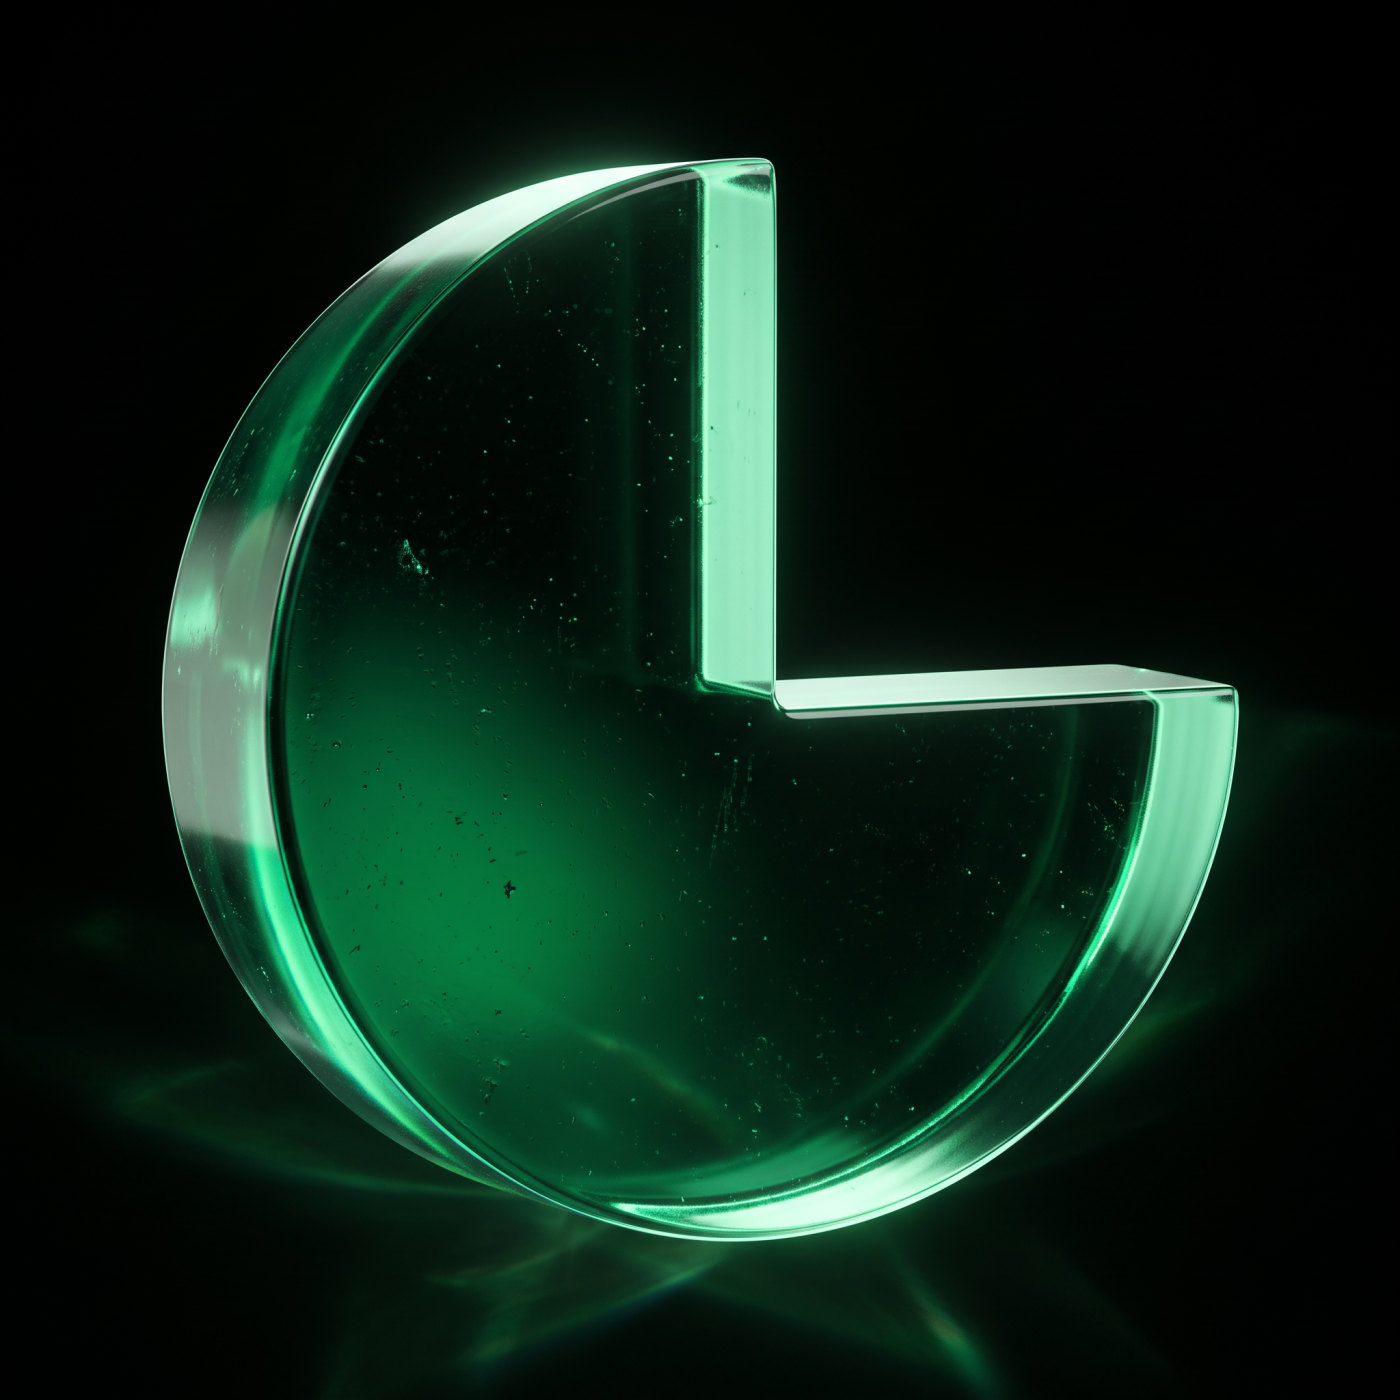
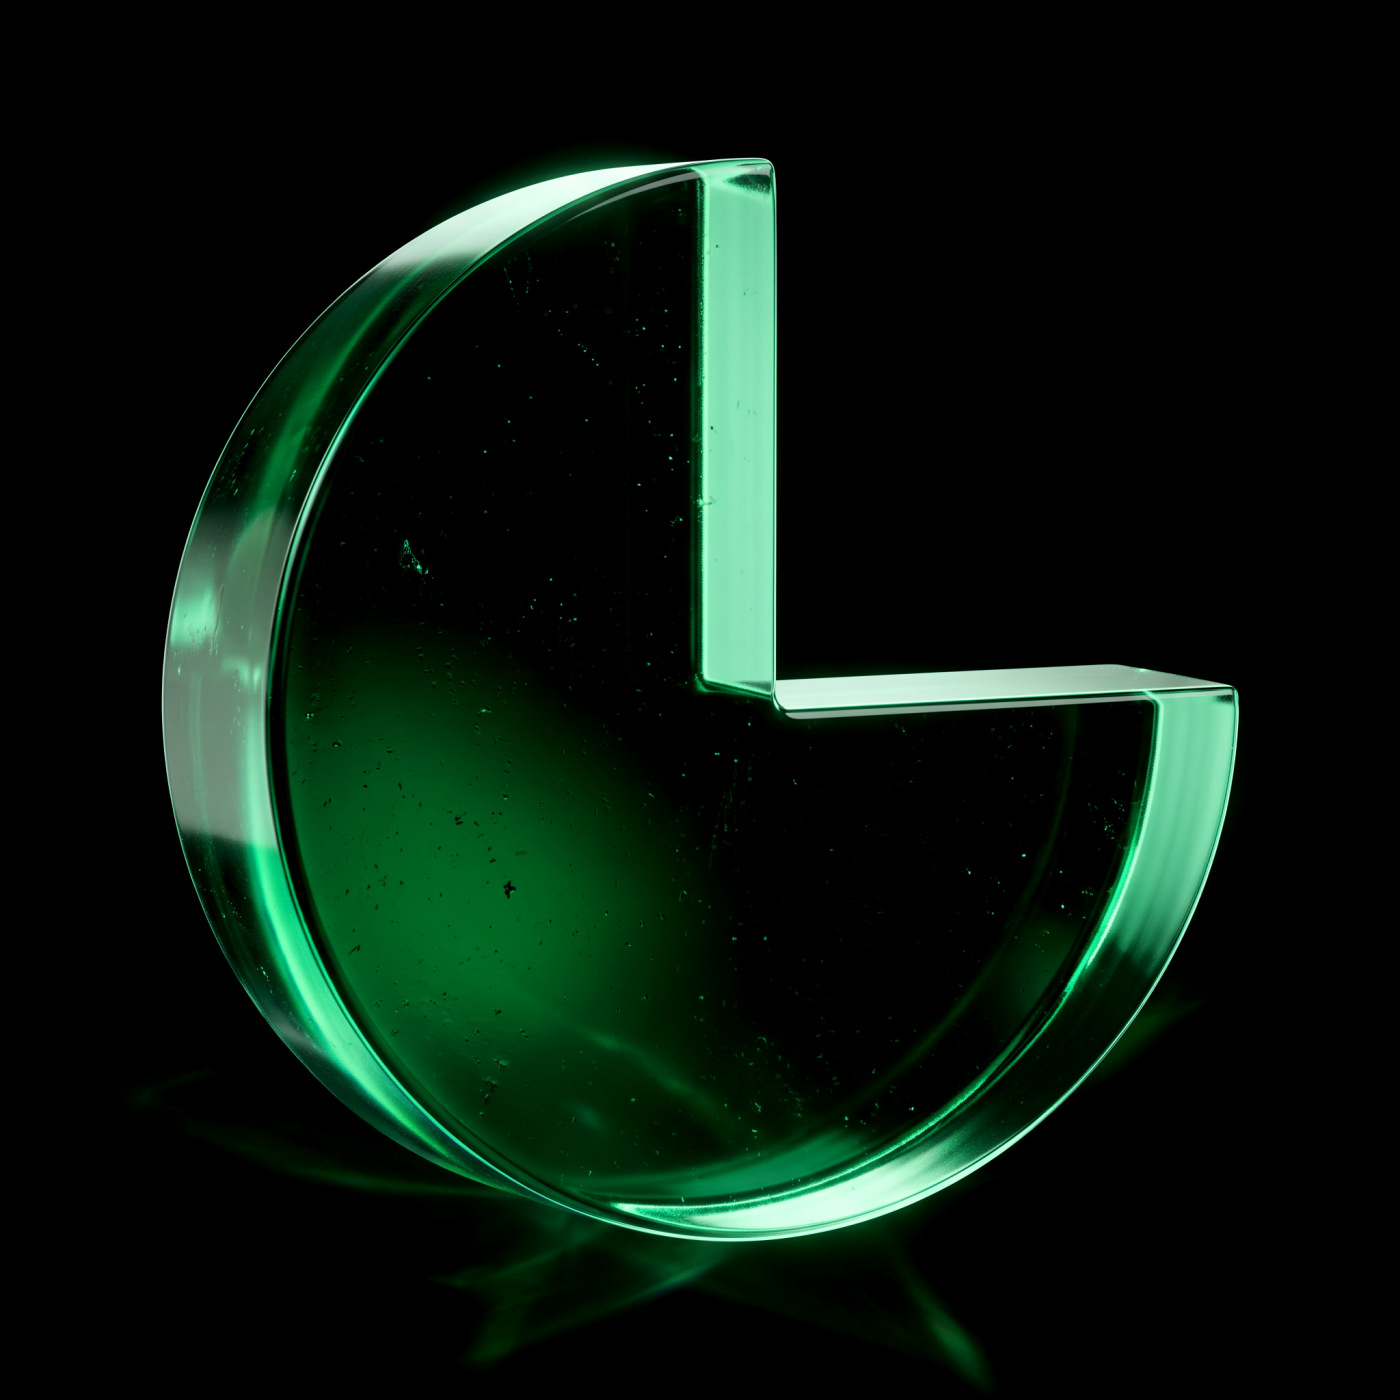
Titulo em 2 linhas, copy nova na faixa e fim da mancha em volta da peca
Titulo: medi a largura real de cada estado antes de escolher o tamanho. Na
coluna de 662px, "o seu dia escapa." pedia 902px - essa palavra saiu da
rotacao, e linha 2 variando de 658 a 902 ficaria desequilibrada de qualquer
jeito. Com foi/some/vai a linha mais larga da 651, e o teto caiu de 7 para
5.6rem (90px). O termo em vw foi para 7.2 porque perto de 1100px a coluna
encolhe mais rapido que a fonte e a linha quebrava sozinha; o minimo foi
para 2.8rem porque em 390px "some." passava 5px. Conferido em 1024, 1100,
1280, 1440, 1896 e 390: duas linhas em todas.

Faixa: a copy anterior ("um numero que voce acredita") era torta e nao
dizia nada. Virou perceptivo contra real, que e do que o app trata:
"Voce jura que foram vinte minutos. Foram duas horas."

Mancha em volta da peca: o fundo do render nao e preto puro, tem neblina
verde de ambiente, e em mix-blend-mode screen aquilo clareava um borrao ao
redor do disco. Reprocessei o PNG original levantando o ponto de preto
(tudo abaixo de 30 vai a zero, o resto reescalado) e apertei as mascaras
radiais. O vidro continua igual, o borrao sumiu.

Changed region(s): [[0.0614, 0.0921, 0.8907, 1.0], [0.86, 0.4914, 0.9521, 0.645]]

diff --git a/site/estilo.css b/site/estilo.css
@@ -47,7 +47,7 @@ img{display:block;max-width:100%;height:auto}
 /* ------------------------------------------------------------- tipografia */
 .gigante{
   font-weight:600;letter-spacing:-.045em;line-height:.94;
-  font-size:clamp(3rem,7.6vw,7rem);
+  font-size:clamp(2.8rem,7.2vw,5.6rem);
 }
 .titulo{
   font-weight:600;letter-spacing:-.035em;line-height:1.04;
@@ -117,8 +117,8 @@ img{display:block;max-width:100%;height:auto}
 .heroi-obj img{
   width:112%;max-width:none;margin-left:-6%;
   mix-blend-mode:screen;
-  -webkit-mask-image:radial-gradient(circle at 52% 50%,#000 54%,transparent 74%);
-          mask-image:radial-gradient(circle at 52% 50%,#000 54%,transparent 74%);
+  -webkit-mask-image:radial-gradient(circle at 52% 50%,#000 48%,transparent 68%);
+          mask-image:radial-gradient(circle at 52% 50%,#000 48%,transparent 68%);
 }
 @media (max-width:980px){
   .heroi{padding-top:124px}
@@ -329,8 +329,8 @@ img{display:block;max-width:100%;height:auto}
 .cta .env{position:relative}
 .cta img.obj{
   width:152px;margin:0 auto 34px;mix-blend-mode:screen;
-  -webkit-mask-image:radial-gradient(circle at 52% 50%,#000 52%,transparent 72%);
-          mask-image:radial-gradient(circle at 52% 50%,#000 52%,transparent 72%);
+  -webkit-mask-image:radial-gradient(circle at 52% 50%,#000 46%,transparent 66%);
+          mask-image:radial-gradient(circle at 52% 50%,#000 46%,transparent 66%);
 }
 .cta h2{margin-bottom:22px}
 .cta .lead{margin:0 auto;max-width:48ch}
@@ -594,7 +594,7 @@ img{display:block;max-width:100%;height:auto}
 .faixa .dito{max-width:640px}
 .faixa .dito .rotulo{display:block;margin-bottom:22px}
 .faixa p{
-  max-width:17ch;font-size:clamp(1.9rem,3.9vw,3.1rem);
+  max-width:18ch;font-size:clamp(1.9rem,3.9vw,3.1rem);
   font-weight:600;letter-spacing:-.035em;line-height:1.1;
 }
 .faixa p span{color:var(--apagado)}

diff --git a/site/index.html b/site/index.html
@@ -52,7 +52,7 @@
         <div class="heroi-txt">
           <span class="selo"><i></i> versão 1.6 · Windows 10 e 11</span>
           <!-- sem JS fica "foi." parado, que ja e uma frase inteira -->
-          <h1 class="gigante">Para onde<br>o seu dia<br><em class="gira" data-palavras="foi.|some.|vai.|escapa.">foi.</em></h1>
+          <h1 class="gigante">Para onde<br>o seu dia <em class="gira" data-palavras="foi.|some.|vai.">foi.</em></h1>
           <p class="lead">O Chronos fica rodando no canto e mede quanto tempo você passou em cada programa e em cada site do navegador. Sem nuvem, sem conta, sem assinatura.</p>
           <div class="acoes">
             <a class="pilula g" href="/baixar">
@@ -250,8 +250,8 @@
     <img src="/imagens/vidro-camadas.jpg" width="1400" height="939" alt="" loading="lazy">
     <div class="env">
       <div class="dito">
-        <span class="rotulo sobe">A regra da casa</span>
-        <p class="sobe">Um número que você acredita. <span>Senão não serve para nada.</span></p>
+        <span class="rotulo sobe">Por que medir</span>
+        <p class="sobe">Você jura que foram vinte minutos. <span>Foram duas horas.</span></p>
         <ul class="regras">
           <li class="sobe"><i class="sim"></i>Tocando na sua frente, conta</li>
           <li class="sobe"><i class="sim"></i>Minimizado com som saindo, conta</li>
